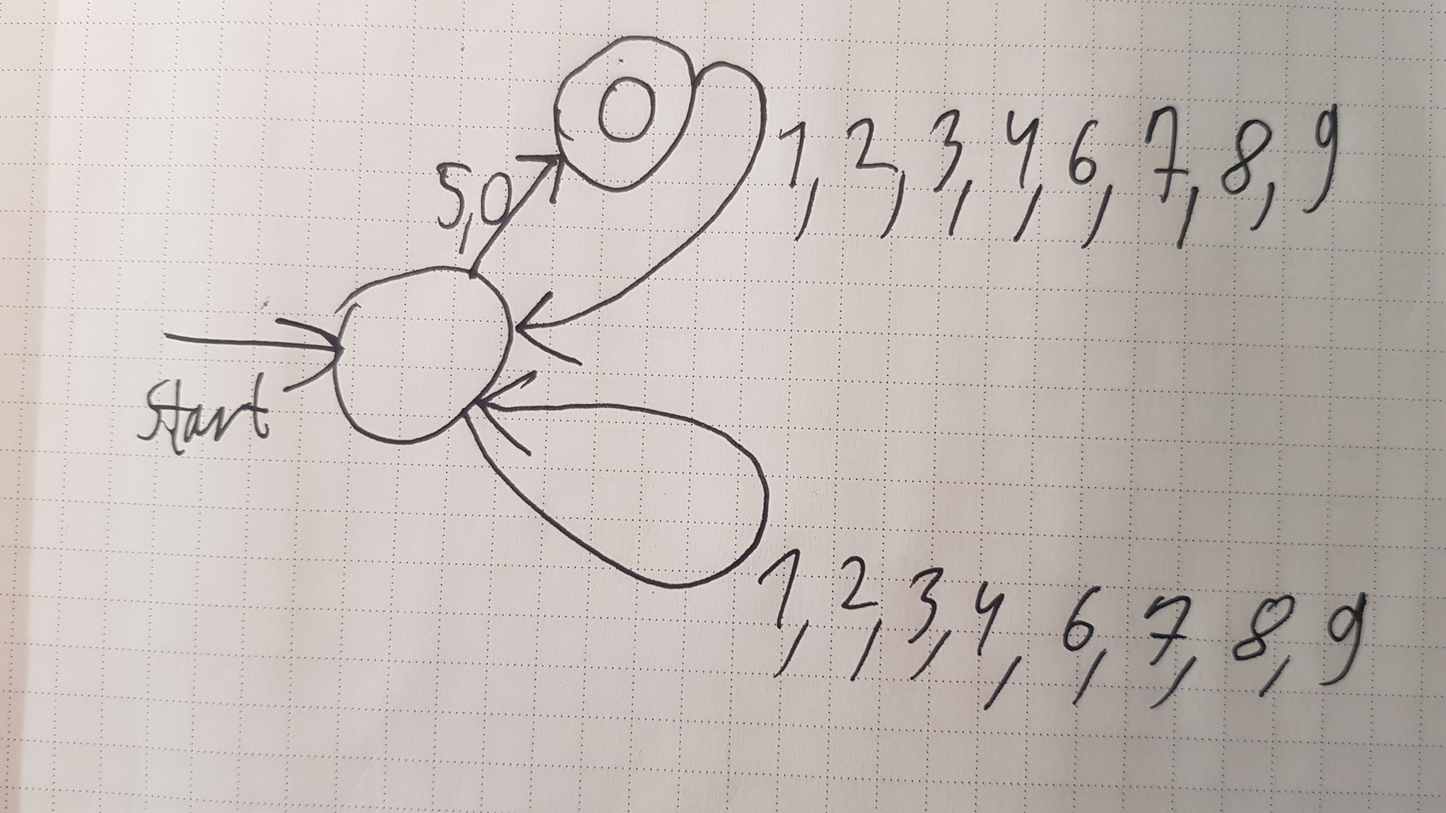
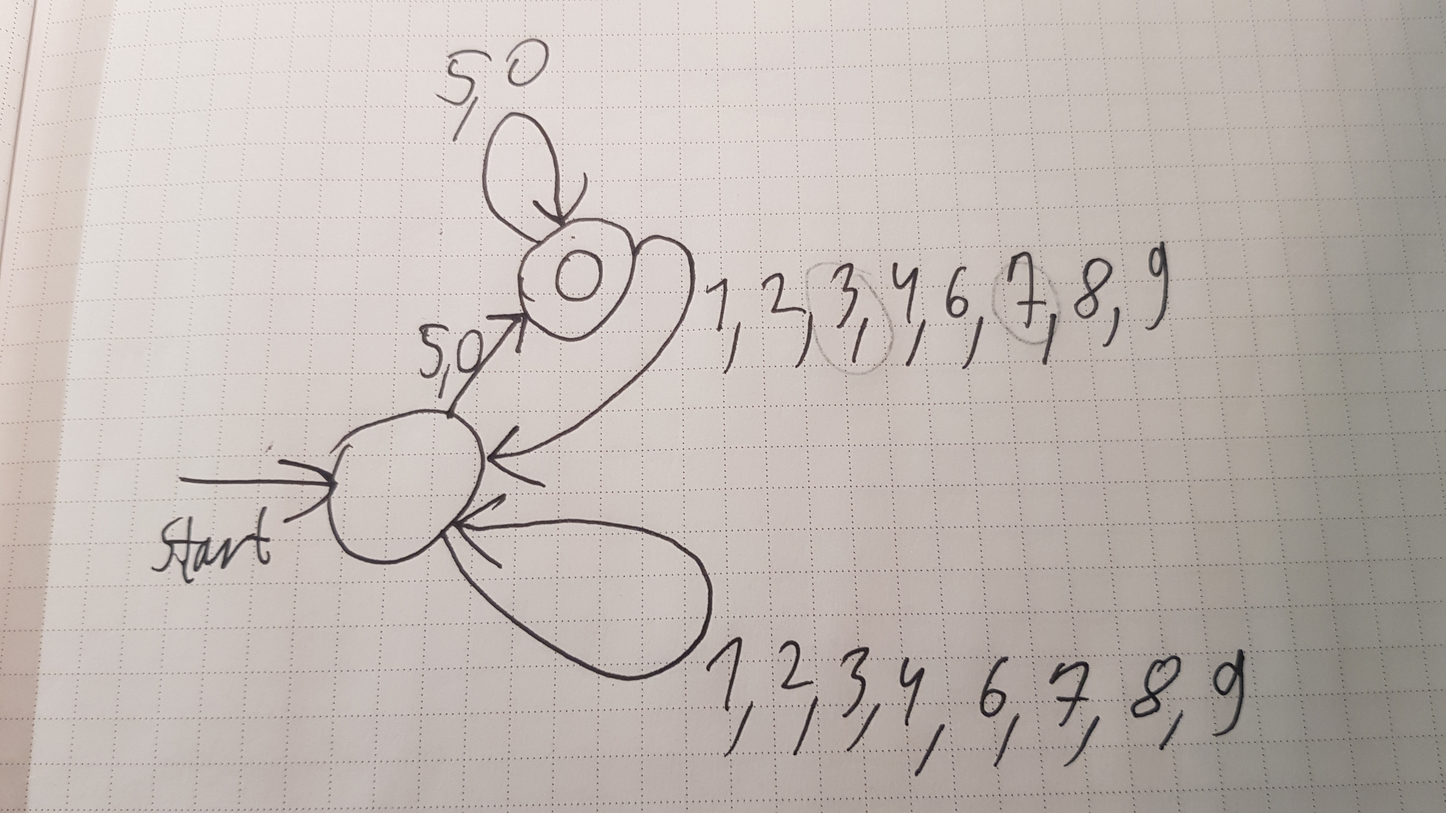
Edited task 1

diff --git a/main.md b/main.md
@@ -3,4 +3,11 @@
 
 ### Задача 1
 
+Нужно просто проверить, является ли последний символ цифрой 0 или 5.
+
 ![](task1.jpg)
+
+
+### Задача 2
+
+
